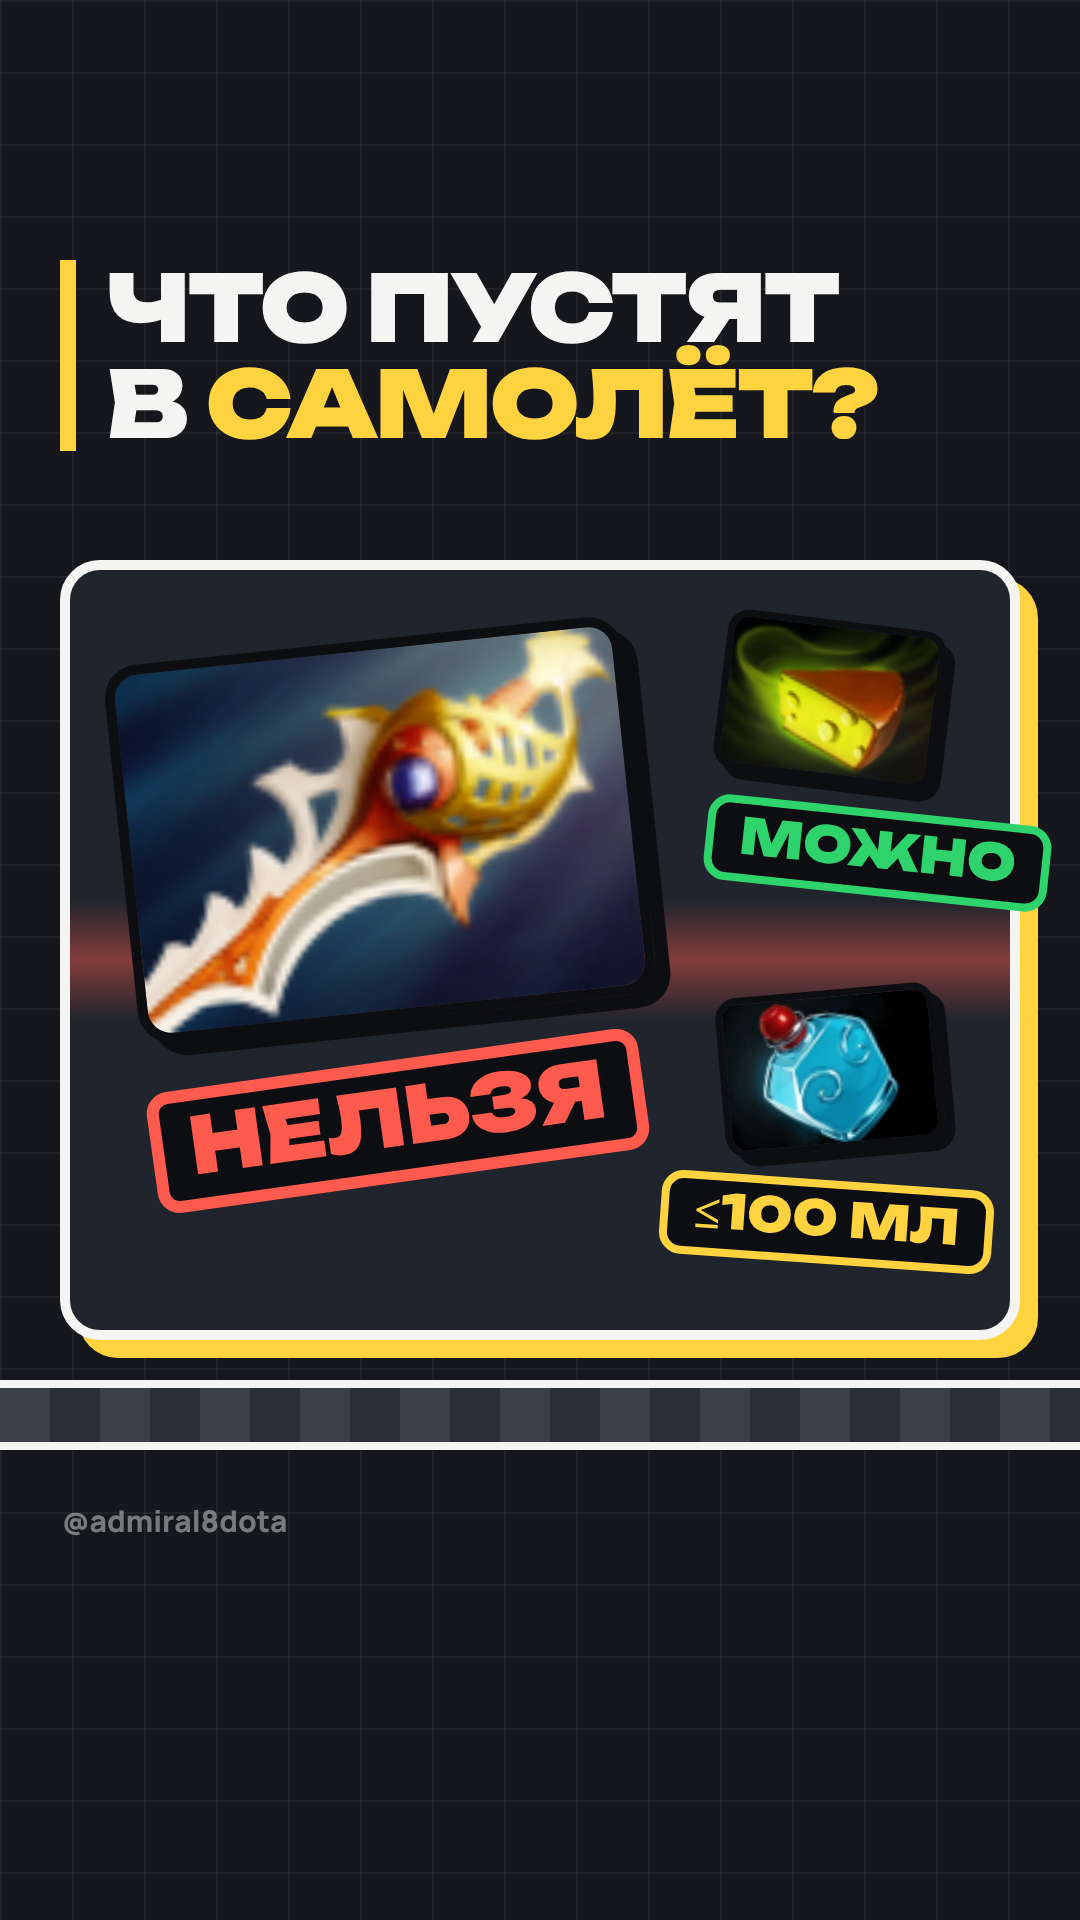
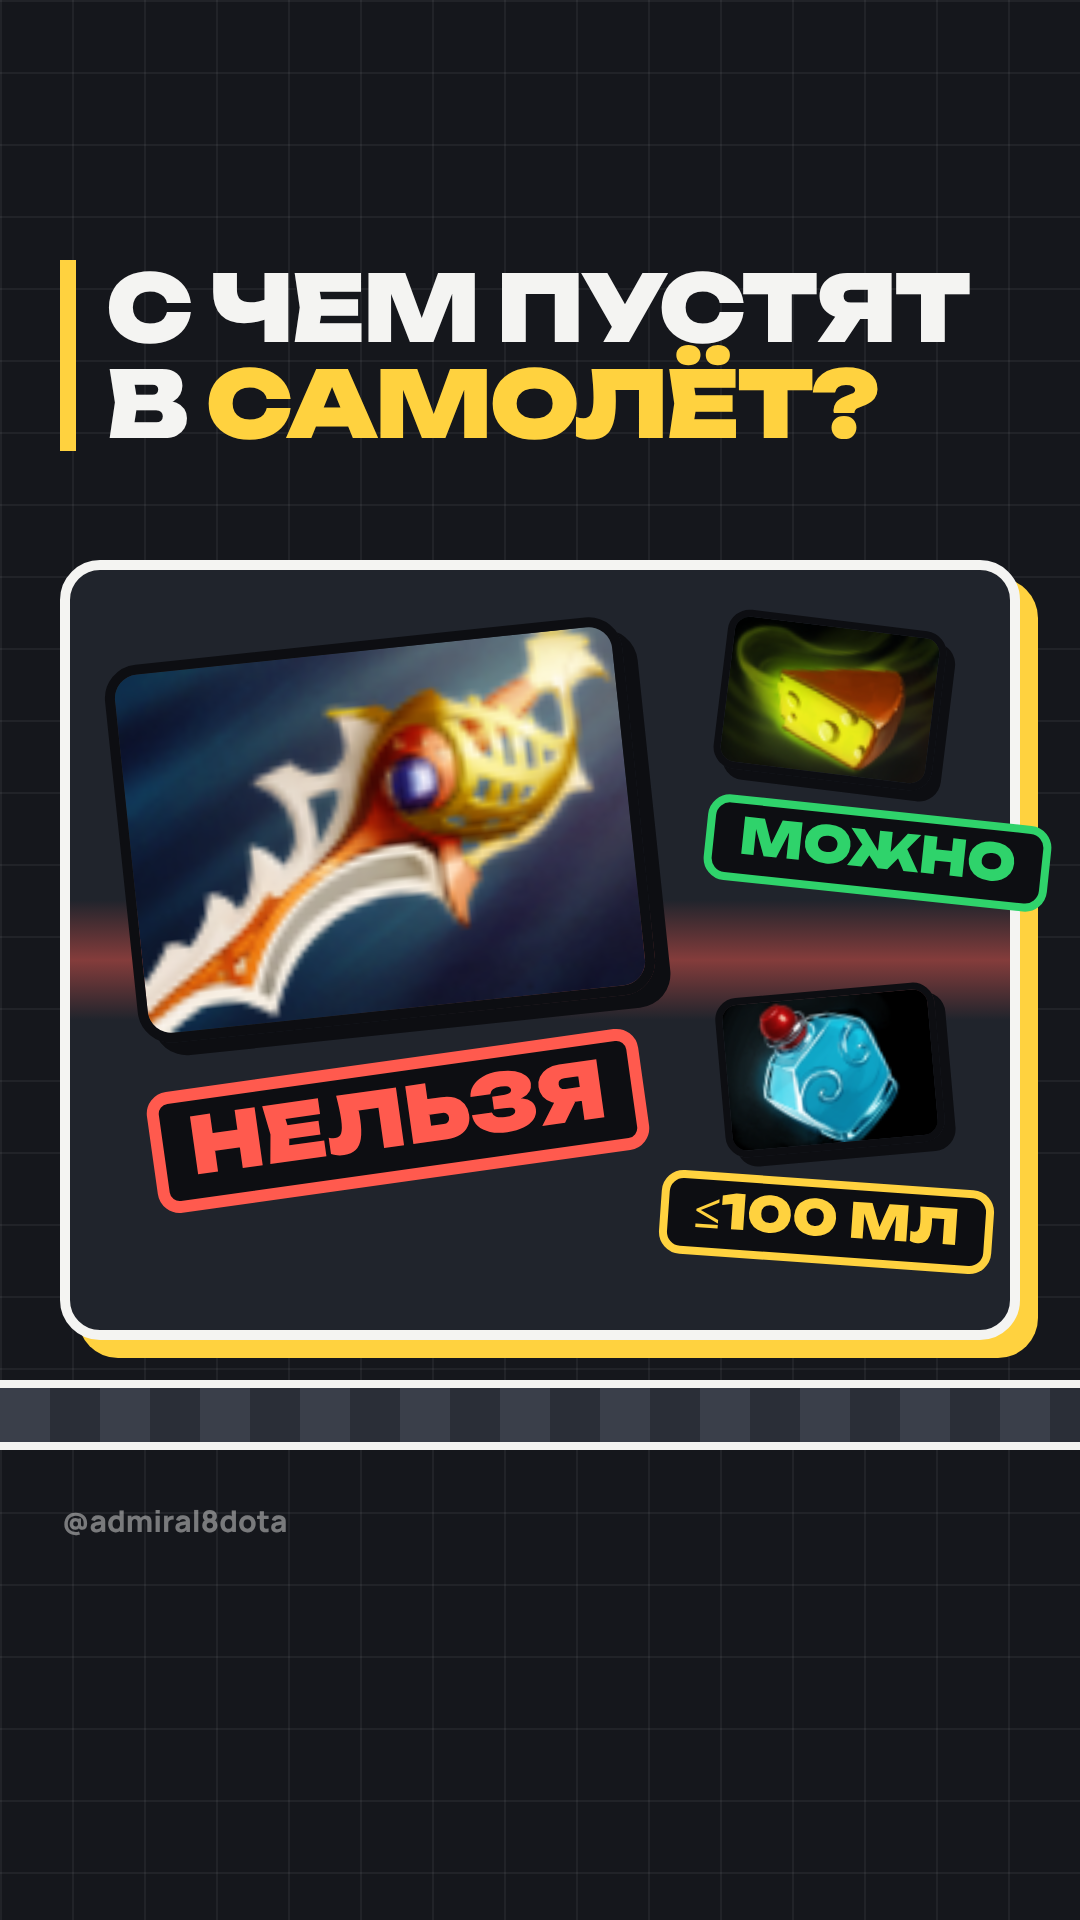
Обложка 004: «С чем пустят в самолёт?» [skip ci]
Claude-Session: https://claude.ai/code/session_0175idz4n1ky9aZ7CxkAuYXE

Changed region(s): [[0.0917, 0.125, 0.9167, 0.1875]]

diff --git a/cover_004.html b/cover_004.html
@@ -36,7 +36,7 @@ html, body { width: 1080px; height: 1920px; overflow: hidden; background: var(--
 </head>
 <body>
 <div class="grid"></div>
-<div class="head">Что пустят<br>в <span class="y">самолёт?</span></div>
+<div class="head">С чем пустят<br>в <span class="y">самолёт?</span></div>
 <div class="scan"></div>
 <img class="big" src="_fv_work/item_rapier.png">
 <div class="stamp no" style="left:150px;top:1060px;transform:rotate(-8deg)">НЕЛЬЗЯ</div>
